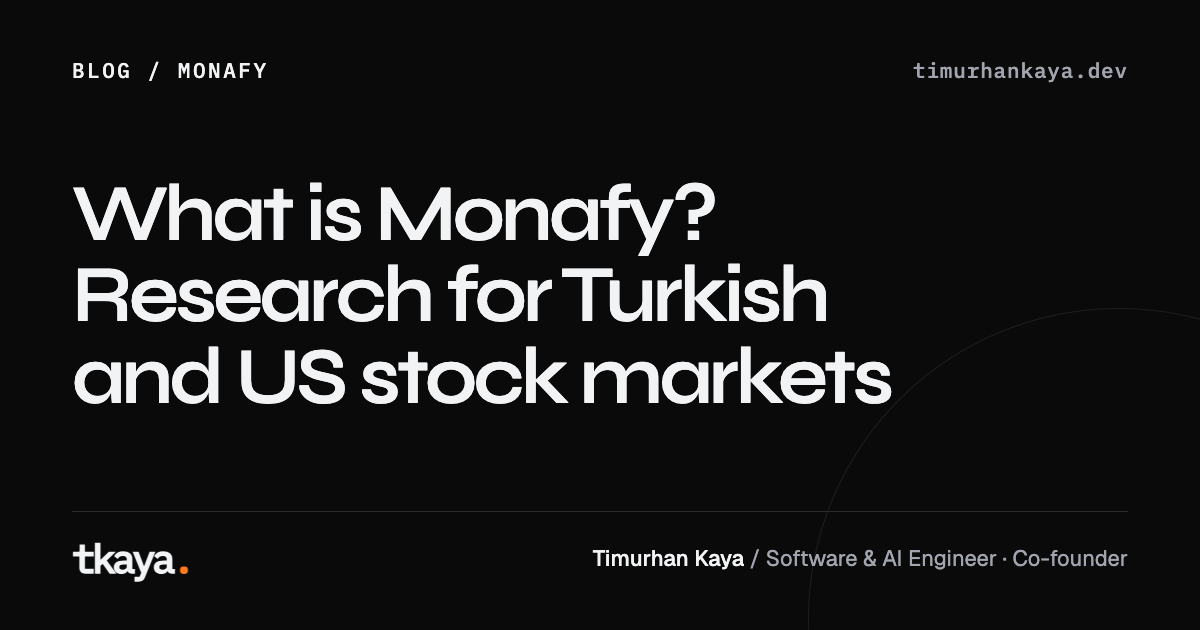
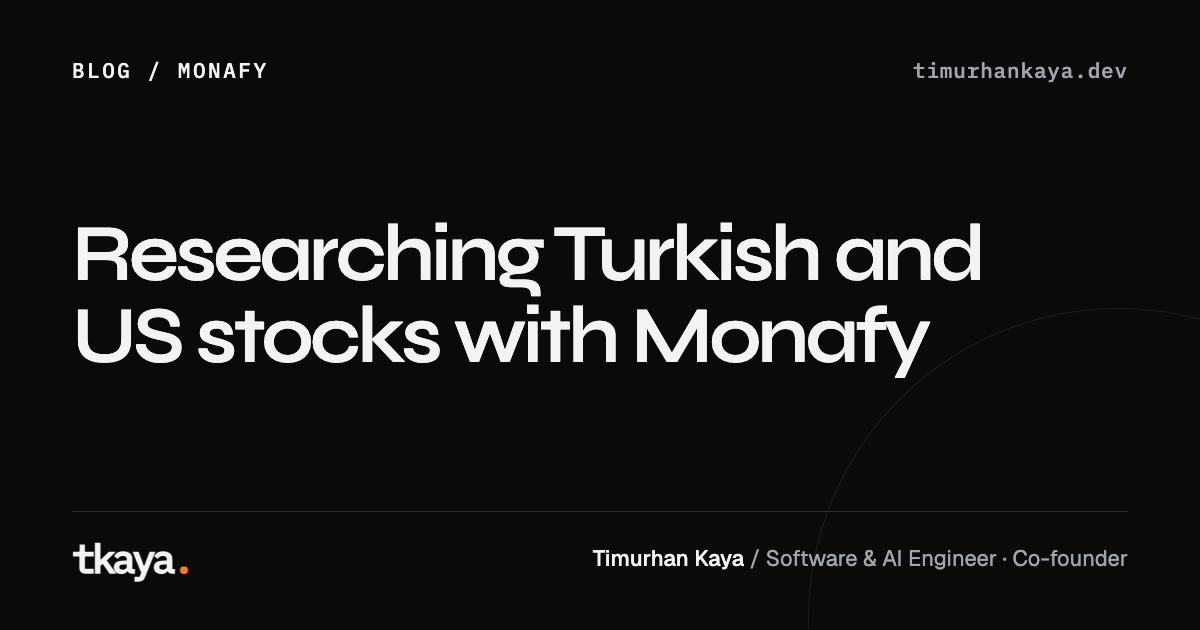
Rewrite story headlines and summaries around concrete reader questions

Changed region(s): [[0.0617, 0.2714, 0.8325, 0.6635]]

diff --git a/docs/superpowers/notes/writing-voice.md b/docs/superpowers/notes/writing-voice.md
@@ -34,9 +34,12 @@ Articles run a little longer than case studies (500–1,000 English words). They
 
 ## Titles
 
-- Start from what the reader would have seen or asked. Sentence case. At most 70 characters. No colon, no "from … to …".
-- Good: "Fiyatlar ABD kapanışında neden düşüyordu?", "Günlük rapor bir gün boyunca neden yazılmadı?", "Why did the daily report not run for a day?"
-- Bad: "Building Mona: from keyword gates to a tool loop with guardrails", "One way in: Monafy's market-data pipeline", "Checking production every evening: verification, runbooks and deploy order"
+- Name the reader's concrete question or the decision that distinguishes this piece. Sentence case. At most 70 characters; provide a shorter search title when needed. No colon or "from … to …" pattern.
+- Read the body as a domain specialist before naming it. A latency article must distinguish transport from waiting; a financial article must preserve the measurement date and period. Do not imply a universal guarantee, a measured improvement or an incident that the body does not establish.
+- Compare a few candidate headlines privately, then choose the one that states the article's useful contribution most clearly. Do not publish the candidates or reuse a question/infinitive template across every title.
+- Good: "Canlı fiyatlar neden gecikir? Kafka hattında gecikme analizi", "Tek şablondan müşteriye özel SaaS iş akışları", "What a financial metric leaves unexplained".
+- Weak: "Kafka fiyat akışında gecikmeyi ölçmek ve azaltmak" (names activities without the finding), "Finansal göstergeleri anlaşılır kılan ürün kararları" (does not name what the reader will understand).
+- Published locale slugs stay fixed when a headline is edited.
 
 ## Body
 
@@ -56,7 +59,9 @@ Articles run a little longer than case studies (500–1,000 English words). They
 ## Summary line
 
 `excerpt` is the answer-first summary shown at the top of the page and used as the description fallback.
-One or two sentences that answer the title, 160 characters or fewer where possible.
+One or two sentences that give the finding or useful distinction, 160 characters or fewer where possible. Do not spend this space on "nasıl yaptığımı anlatıyorum", "bu yazıda" or "in this article"; state the substance directly.
+
+The meta description has a different job: identify the page's specific scope and what a searcher can learn. Write it separately from the excerpt rather than copying the same sentence by default. Include technical terms only when they explain the decision or match the reader's question. Keep each language natural, with the same factual boundaries. Character limits are display conventions, not ranking promises.
 
 ## Never
 

diff --git a/resources/editorial/policy.md b/resources/editorial/policy.md
@@ -22,7 +22,7 @@ At most one new bilingual topic per run and two per rolling seven days, includin
 
 Every material claim needs private source evidence. Distinguish code behavior, observed production behavior, measurement and inference. Never invent incidents, dialogue, feelings, outcomes, coverage or success rates. A test in source does not establish a passing run. Financial explanations must preserve dates, session, units, currencies, periods and missing-data meaning; correlation does not prove causation. Editorial research uses primary sources when needed.
 
-Use general, helpful titles and natural TR/EN prose. Avoid repeated co-founder/engineer introductions; the site bio carries the role. First-person claims describe verified contributions. General market wording is Türkiye ve ABD borsaları / Turkish and US stock markets. Keep natural summaries, descriptive locale-specific slugs and short paragraphs. StoryStyle ranges are house conventions, not ranking rules; never pad to meet a quota.
+Use specific, reader-oriented headlines that identify the real question or distinguishing decision. Review titles as a domain specialist: preserve the body's technical/financial scope and do not promise unsupported incidents, measurements or guarantees. Avoid repetitive activity-label headlines and do not force every title into a question. Write the excerpt as a direct finding and the meta description as a distinct, page-specific search preview; avoid "in this article" or "nasıl yaptığımı anlatıyorum" filler. Published slugs remain unchanged after headline edits. Use natural TR/EN prose. Avoid repeated co-founder/engineer introductions; the site bio carries the role. First-person claims describe verified contributions. General market wording is Türkiye ve ABD borsaları / Turkish and US stock markets. Keep natural summaries, descriptive locale-specific slugs and short paragraphs. StoryStyle ranges are house conventions, not ranking rules; never pad to meet a quota.
 
 Use relevant public Monafy links that match language and scope. Verify the first GET response without following redirects, not only the final 200. Replace redirected destinations with their direct canonical URLs and confirm the Monafy HTML language matches the story even with the opposite browser-language preference. Use explicit product pages instead of the language-negotiating root homepage. Apply this to body, project and related case links; do not link private, missing or disabled product pages. Use existing emphasis, callout, flow/layer, responsive table and quote components where they clarify meaning. Selected technical pieces may include one short, illustrative code sample rewritten without private identifiers or implementation secrets.
 

diff --git a/resources/editorial/prompt.md b/resources/editorial/prompt.md
@@ -43,6 +43,10 @@ Her önemli iddiayı özel kanıt dosyasında repo, tam SHA ve dosyayla eşleşt
 
 Genel ve açıklayıcı bir başlık seç. Monafy bağlantısını gövdede kur; her başlığı marka veya iç modül adıyla başlatma. İlk paragraf okuyucunun sorusuna doğrudan girsin. Paragraflar kısa, ara başlıklar bölüme özgü olsun. Gereksiz “kurucu ortak olarak”, “AI mühendisi olarak” ve kendini tanıtma cümleleri ekleme; kimlik bilgisi site biyografisinde yeterli. Birinci kişi yalnız doğrulanmış katkıyı anlatırken kullanılsın.
 
+Başlık ve açıklamayı konu uzmanı olarak ayrıca düzenle. Önce metnin okuyucuya öğrettiği somut ayrımı tek cümlede belirle; birkaç başlık seçeneğini kendi içinde değerlendirip en açık olanı seç. Yalnız teknoloji adı ile “yapmak / yönetmek / iyileştirmek” fiilini birleştiren genel başlıklardan kaçın. Her başlığı soru biçimine de zorlama. Başlıkta gövdenin göstermediği bir olay, ölçülmüş kazanç veya kapsamlı garanti vaat etme. Örneğin fiyat gecikmesinde taşıma maliyeti ile bekleme süresini, fon getirisinde fiyat tarihi ile hesaplanan dönemi ayır.
+
+Kart özetini ve SEO açıklamasını ayrı yaz. Özet, ana bulguyu veya okuyucuya yarayan ayrımı doğrudan söylesin; “bu yazıda”, “nasıl yaptığımı anlatıyorum” veya “in this article” ile yer tüketmesin. SEO açıklaması sayfaya özgü kapsamı ve öğrenilecek noktayı doğal dille anlatsın. Başlığı tekrar etme, iki alanı varsayılan olarak aynı cümleyle doldurma. Karakter sayısı uğruna anlamı kırpma veya kelime doldurma.
+
 Türkçeyi doğal yaz; İngilizceyi kelime kelime çevirmek yerine aynı iddia ve sınırlarla yeniden kur. Genel piyasa ifadesi “Türkiye ve ABD borsaları” / “Turkish and US stock markets”. Elde olmayan veri için sıfır, sonuç için başarı oranı veya yorum için kesin nedensellik üretme.
 
 Her dilde başlık, özet, meta_title, meta_description ve kendine ait kısa, açıklayıcı slug hazırla. İngilizce adresi Türkçe sayfaya kopyalama. Yayımlanan adresler sabittir; mevcut yazının başlığı değiştiğinde slug’ını kendiliğinden değiştirme. Teknik SEO’nun sağladığı canonical/hreflang düzenini metin içine yeniden yazma.
